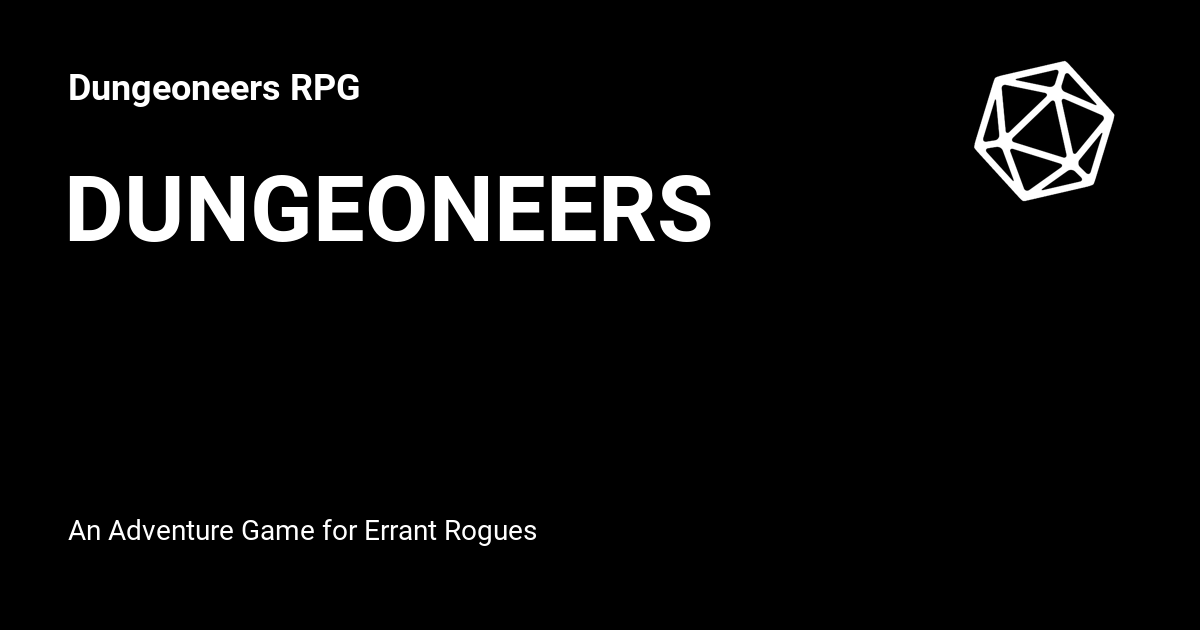
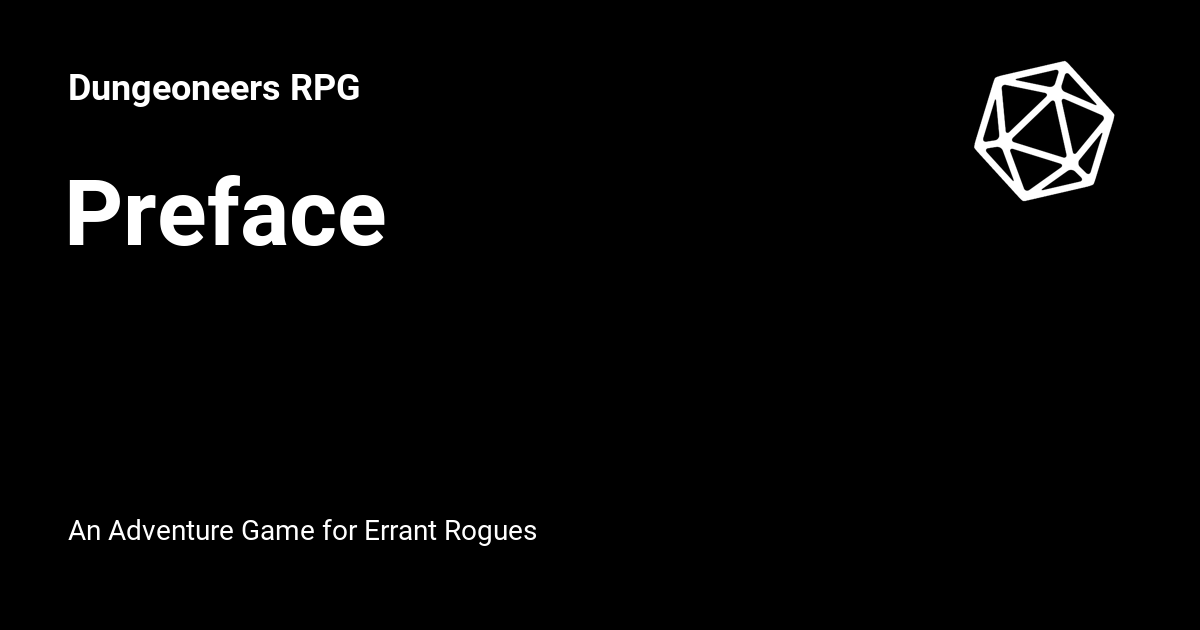
push

Changed region(s): [[0.0617, 0.2714, 0.6167, 0.3921]]

diff --git a/dungeoneers/index.html b/dungeoneers/index.html
@@ -61,7 +61,7 @@
       
         <meta  property="og:type"  content="website" >
       
-        <meta  property="og:title"  content="DUNGEONEERS" >
+        <meta  property="og:title"  content="Preface" >
       
         <meta  property="og:description"  content="An Adventure Game for Errant Rogues" >
       
@@ -77,7 +77,7 @@
       
         <meta  name="twitter:card"  content="summary_large_image" >
       
-        <meta  name="twitter:title"  content="DUNGEONEERS" >
+        <meta  name="twitter:title"  content="Preface" >
       
         <meta  name="twitter:description"  content="An Adventure Game for Errant Rogues" >
       
@@ -104,7 +104,7 @@
     <div data-md-component="skip">
       
         
-        <a href="#dungeoneers" class="md-skip">
+        <a href="#preface" class="md-skip">
           Skip to content
         </a>
       
@@ -139,7 +139,7 @@
         <div class="md-header__topic" data-md-component="header-topic">
           <span class="md-ellipsis">
             
-              DUNGEONEERS
+              Preface
             
           </span>
         </div>
@@ -294,7 +294,7 @@
         
   
   <span class="md-ellipsis">
-    DUNGEONEERS
+    Preface
   </span>
   
 
@@ -632,7 +632,7 @@
   
 
 
-<h1 id="dungeoneers">DUNGEONEERS<a class="headerlink" href="#dungeoneers" title="Permanent link">&para;</a></h1>
+<h1 id="preface">Preface<a class="headerlink" href="#preface" title="Permanent link">&para;</a></h1>
 <p><center>
 <em>DUNGEONEERS</em><br />
 <br/>

diff --git a/dungeoneers/character/index.html b/dungeoneers/character/index.html
@@ -287,7 +287,7 @@
         
   
   <span class="md-ellipsis">
-    DUNGEONEERS
+    Preface
   </span>
   
 
@@ -1926,7 +1926,7 @@
       <nav class="md-footer__inner md-grid" aria-label="Footer" >
         
           
-          <a href=".." class="md-footer__link md-footer__link--prev" aria-label="Previous: DUNGEONEERS">
+          <a href=".." class="md-footer__link md-footer__link--prev" aria-label="Previous: Preface">
             <div class="md-footer__button md-icon">
               
               <svg xmlns="http://www.w3.org/2000/svg" viewBox="0 0 24 24"><path d="M20 11v2H8l5.5 5.5-1.42 1.42L4.16 12l7.92-7.92L13.5 5.5 8 11h12Z"/></svg>
@@ -1936,7 +1936,7 @@
                 Previous
               </span>
               <div class="md-ellipsis">
-                DUNGEONEERS
+                Preface
               </div>
             </div>
           </a>

diff --git a/dungeoneers/404.html b/dungeoneers/404.html
@@ -250,7 +250,7 @@
         
   
   <span class="md-ellipsis">
-    DUNGEONEERS
+    Preface
   </span>
   
 

diff --git a/dungeoneers/appendix-a-reference/index.html b/dungeoneers/appendix-a-reference/index.html
@@ -287,7 +287,7 @@
         
   
   <span class="md-ellipsis">
-    DUNGEONEERS
+    Preface
   </span>
   
 

diff --git a/dungeoneers/appendix-b-sundries/index.html b/dungeoneers/appendix-b-sundries/index.html
@@ -287,7 +287,7 @@
         
   
   <span class="md-ellipsis">
-    DUNGEONEERS
+    Preface
   </span>
   
 

diff --git a/dungeoneers/appendix-c-mounts/index.html b/dungeoneers/appendix-c-mounts/index.html
@@ -287,7 +287,7 @@
         
   
   <span class="md-ellipsis">
-    DUNGEONEERS
+    Preface
   </span>
   
 

diff --git a/dungeoneers/appendix-d-renown/index.html b/dungeoneers/appendix-d-renown/index.html
@@ -287,7 +287,7 @@
         
   
   <span class="md-ellipsis">
-    DUNGEONEERS
+    Preface
   </span>
   
 

diff --git a/dungeoneers/appendix-e-advancement/index.html b/dungeoneers/appendix-e-advancement/index.html
@@ -287,7 +287,7 @@
         
   
   <span class="md-ellipsis">
-    DUNGEONEERS
+    Preface
   </span>
   
 

diff --git a/dungeoneers/attribution/index.html b/dungeoneers/attribution/index.html
@@ -285,7 +285,7 @@
         
   
   <span class="md-ellipsis">
-    DUNGEONEERS
+    Preface
   </span>
   
 

diff --git a/dungeoneers/combat/index.html b/dungeoneers/combat/index.html
@@ -287,7 +287,7 @@
         
   
   <span class="md-ellipsis">
-    DUNGEONEERS
+    Preface
   </span>
   
 

diff --git a/dungeoneers/damage/index.html b/dungeoneers/damage/index.html
@@ -287,7 +287,7 @@
         
   
   <span class="md-ellipsis">
-    DUNGEONEERS
+    Preface
   </span>
   
 

diff --git a/dungeoneers/equipment/index.html b/dungeoneers/equipment/index.html
@@ -287,7 +287,7 @@
         
   
   <span class="md-ellipsis">
-    DUNGEONEERS
+    Preface
   </span>
   
 
